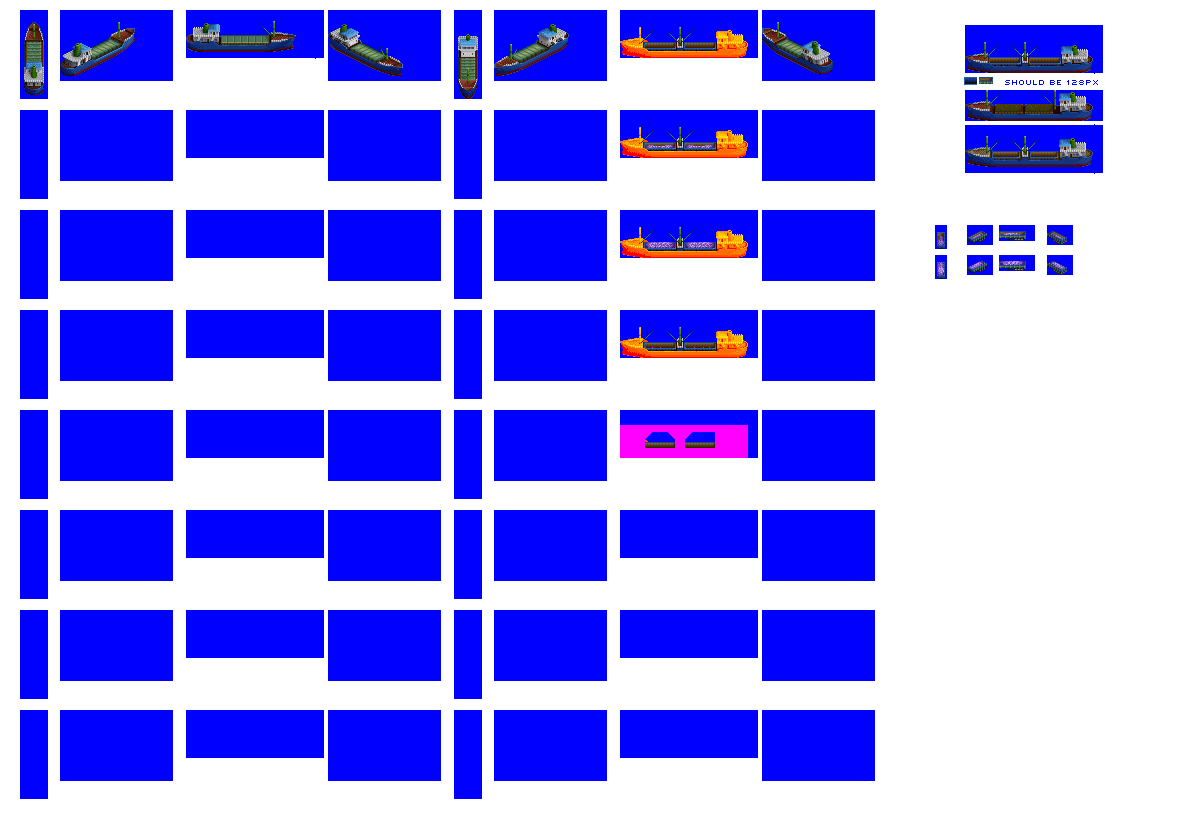
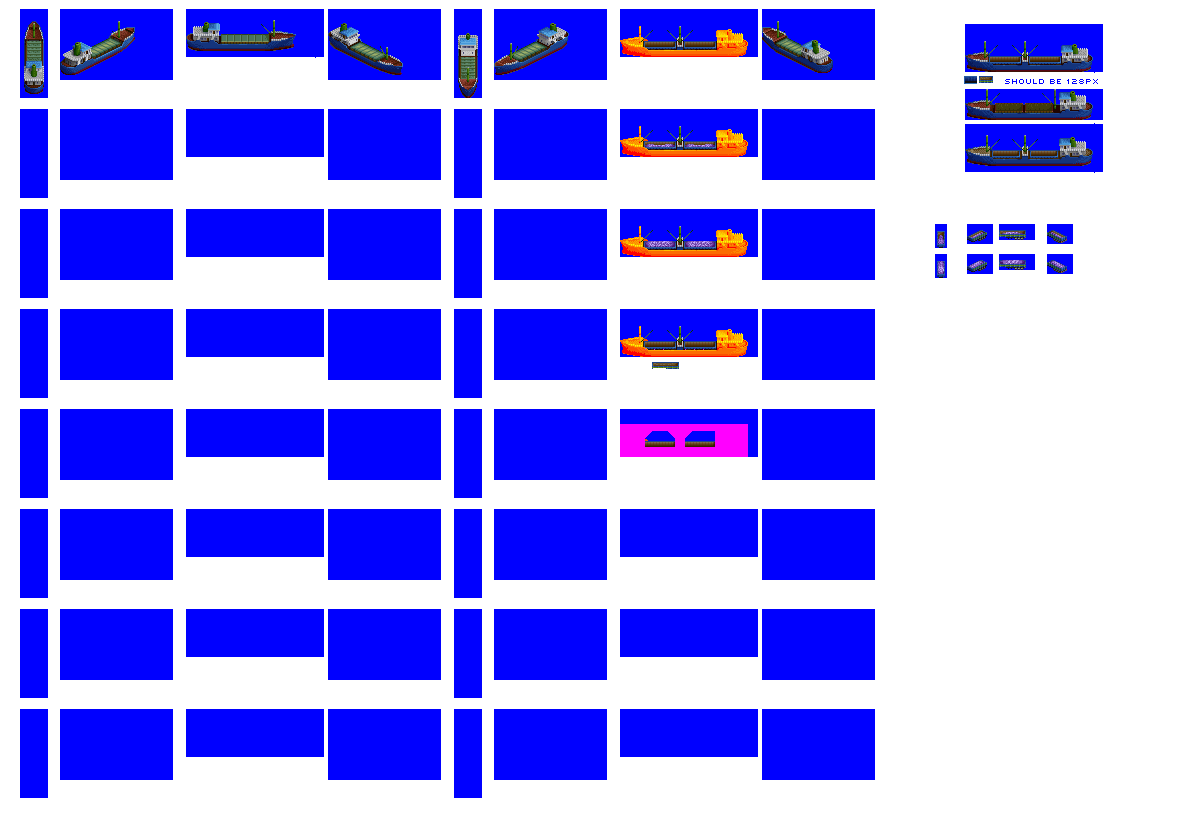
Change: improved piece goods positioning for universal freighter large

diff --git a/src/graphics_processor/pipelines.py b/src/graphics_processor/pipelines.py
@@ -184,7 +184,7 @@ class ExtendSpriterowsForCompositedCargosPipeline(Pipeline):
         vehicle_base_image = self.vehicle_base_image.copy().crop((0, 100, graphics_constants.spritesheet_width, 300))
 
         vehicle_bulk_cargo_image.paste(vehicle_base_image, None, vehicle_bulk_cargo_mask)
-        vehicle_bulk_cargo_image.show()
+        #vehicle_bulk_cargo_image.show()
 
         vehicle_bulk_cargo_input_as_spritesheet = self.make_spritesheet_from_image(vehicle_bulk_cargo_image)
         crop_box_dest = (0,

diff --git a/src/ship.py b/src/ship.py
@@ -324,7 +324,7 @@ class UniversalFreighter(Ship):
         # Cargo Graphics
         self.visible_cargo.bulk = True
         self.visible_cargo.piece = True
-        self.cargo_length = 4 # !! temp hax to make graphics compile work
+        self.cargo_length = 3 # !! temp hax to make graphics compile work
 
 
 class PieceGoodsCarrier(Ship):
